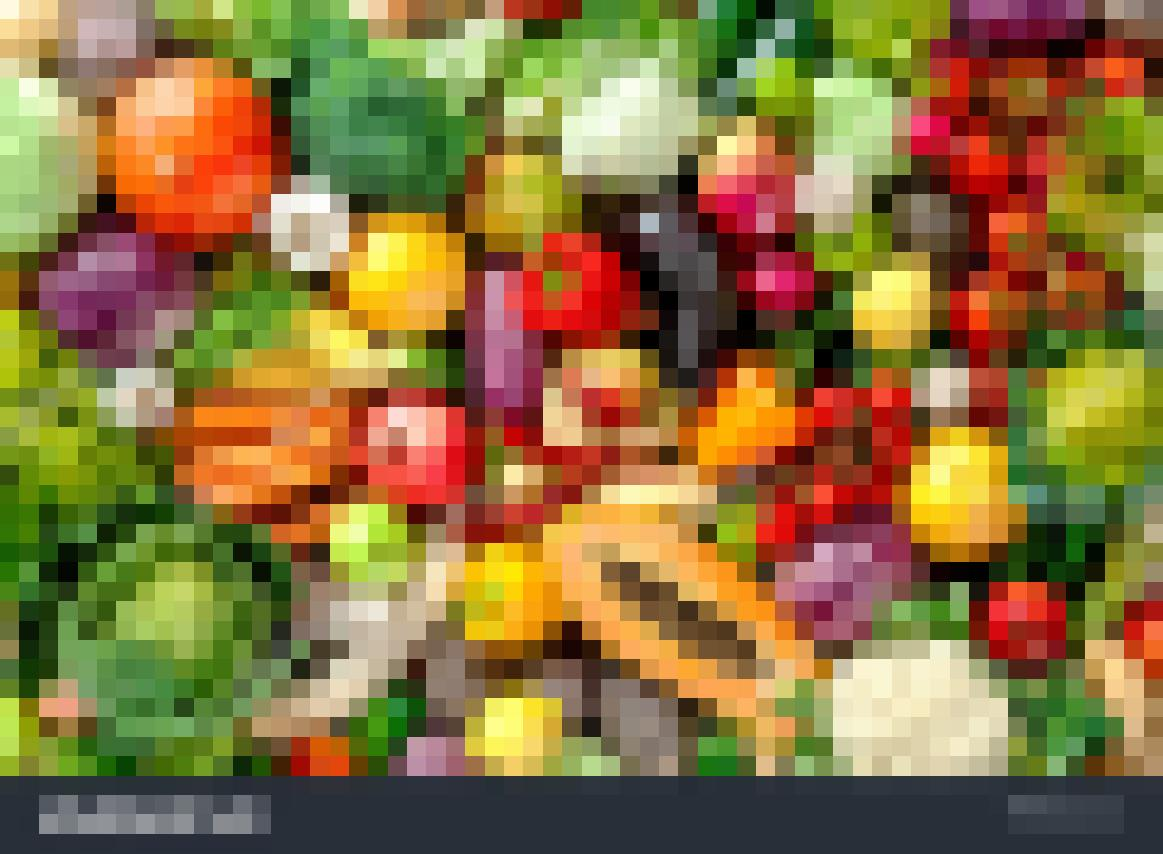
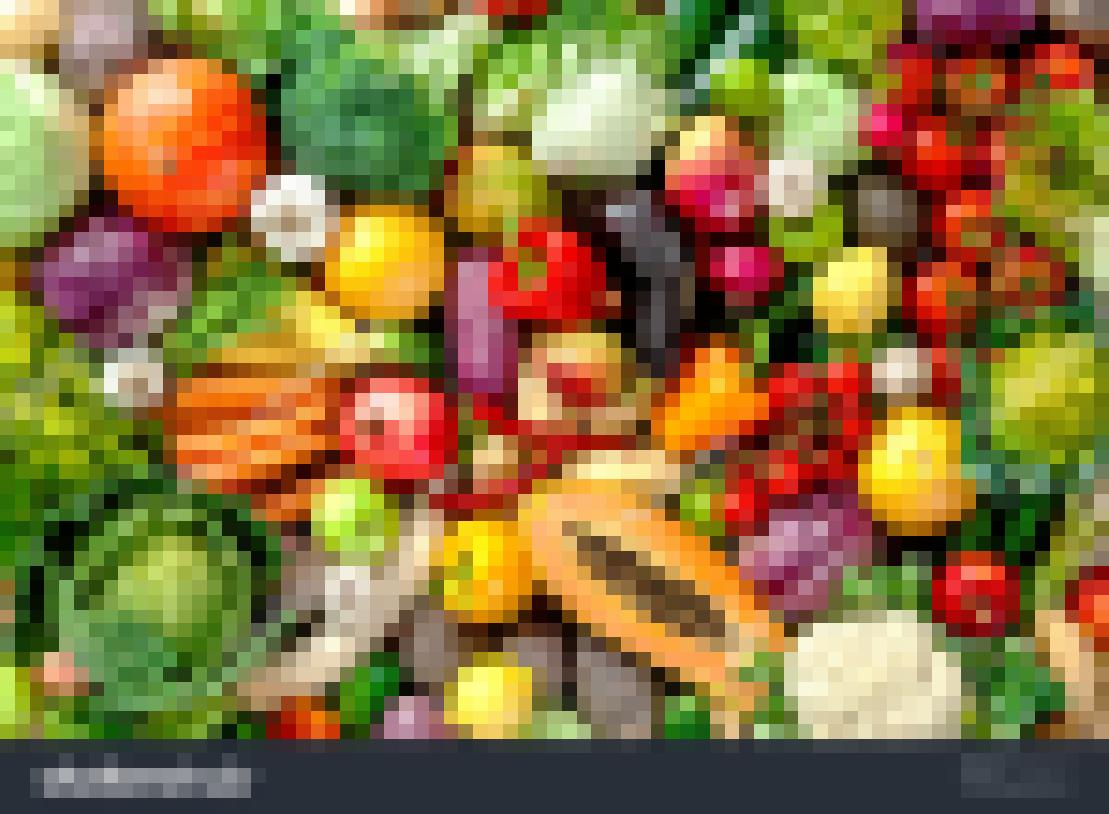
Multi-thread capability is added

diff --git a/ImagePixelizer.java b/ImagePixelizer.java
@@ -21,12 +21,13 @@ public class ImagePixelizer {
         this.squareSize = squareSize;
         this.originalImage = ImageIO.read(new File(fileName));
 
-        // Scaling image
         this.scaledImage = scaleImage(originalImage);
 
         // System.out.println(Runtime.getRuntime().availableProcessors());
-        service = Executors.newSingleThreadExecutor();
+        service = processingMode == 'S' ? Executors.newSingleThreadExecutor()
+                : Executors.newFixedThreadPool(Runtime.getRuntime().availableProcessors());
 
+        // Setup the GUI
         SwingUtilities.invokeLater(() -> {
             frame = new JFrame("Image Processing Progress");
             frame.setDefaultCloseOperation(JFrame.DISPOSE_ON_CLOSE);
@@ -42,8 +43,8 @@ public class ImagePixelizer {
     private BufferedImage scaleImage(BufferedImage img) {
         // Getting the screen dimensions
         Dimension screenSize = Toolkit.getDefaultToolkit().getScreenSize();
-        double maxWidth = screenSize.getWidth() - 10;
-        double maxHeight = screenSize.getHeight() - 10;
+        double maxWidth = screenSize.getWidth() - 50;
+        double maxHeight = screenSize.getHeight() - 50;
 
         // Trying to maintian aspect ratio
         double scaleFactor = Math.min(1d, Math.min(maxWidth / img.getWidth(), maxHeight / img.getHeight()));
@@ -65,20 +66,59 @@ public class ImagePixelizer {
     public void processImage() {
         int width = originalImage.getWidth();
         int height = originalImage.getHeight();
+        // System.out.println(width);
 
-        for (int y = 0; y < height; y += squareSize) {
-            for (int x = 0; x < width; x += squareSize) {
-                final int fx = x;
-                final int fy = y;
+        int updateFrequency = 3;
+
+        // Multi-threaded mode - division to strips
+        if (service instanceof java.util.concurrent.ThreadPoolExecutor) {
+            int cores = Runtime.getRuntime().availableProcessors();
+            int heightPerCore = height / cores;
+
+            for (int i = 0; i < cores; i++) {
+                final int startY = i * heightPerCore;
+                final int endY = (i == cores - 1) ? height : (startY + heightPerCore);
+
                 service.submit(() -> {
-                    setColor(fx, fy);
-                    SwingUtilities.invokeLater(() -> imageLabel.setIcon(new ImageIcon(scaledImage)));
+                    for (int y = startY; y < endY; y += squareSize) {
+                        for (int x = 0; x < width; x += squareSize) {
+                            synchronized (originalImage) {
+                                setColor(x, y);
+                            }
+                            // System.out.println()
+                            if ((x / squareSize) % updateFrequency == 0) {
+                                BufferedImage stripCopy;
+                                synchronized (originalImage) {
+                                    stripCopy = new BufferedImage(scaledImage.getWidth(), scaledImage.getHeight(),
+                                            BufferedImage.TYPE_INT_RGB);
+                                    Graphics2D graphics = stripCopy.createGraphics();
+                                    graphics.drawImage(originalImage, 0, 0, scaledImage.getWidth(),
+                                            scaledImage.getHeight(), null);
+                                    graphics.dispose();
+                                }
+                                final BufferedImage toDisplay = stripCopy;
+                                SwingUtilities.invokeLater(() -> imageLabel.setIcon(new ImageIcon(toDisplay)));
+                            }
+                        }
+                    }
                 });
+            }
+
+            // Single-threaded mode
+        } else {
+            for (int y = 0; y < height; y += squareSize) {
+                for (int x = 0; x < width; x += squareSize) {
+                    final int fx = x;
+                    final int fy = y;
+                    service.submit(() -> {
+                        setColor(fx, fy);
+                        SwingUtilities.invokeLater(() -> imageLabel.setIcon(new ImageIcon(scaledImage)));
+                    });
+                }
             }
         }
 
         service.shutdown();
-
         try {
             if (service.awaitTermination(1, TimeUnit.HOURS)) {
                 ImageIO.write(scaledImage, "jpg", new File("result.jpg"));
